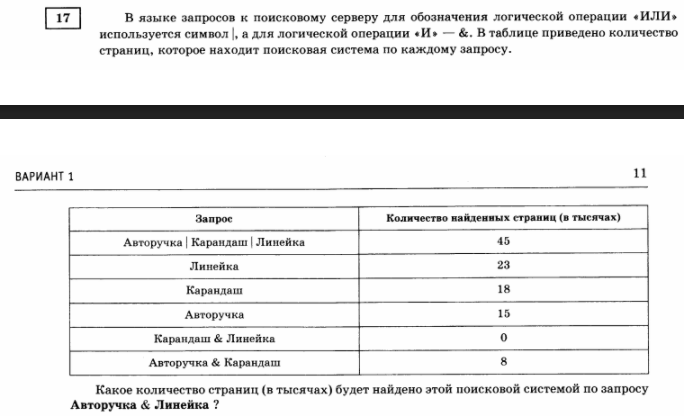
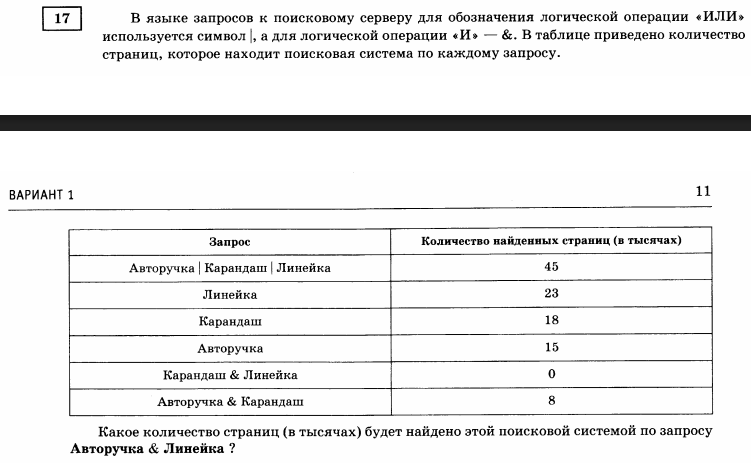
update 2017_Variant1.html

Changed region(s): [[0.0, 0.4062, 0.9518, 1.0], [0.0614, 0.0, 1.0, 0.1562], [0.0, 0.2812, 1.0, 0.3125]]

diff --git a/2017_Variant1.html b/2017_Variant1.html
@@ -13520,8 +13520,8 @@ binary: 11110100, integer: 244
 </div>
 <div class="inner_cell">
 <div class="text_cell_render border-box-sizing rendered_html">
-<p><div style="width: 1000px; height: 600px; overflow:auto;">
-    <img src="it_images/2017_01_17.png" width="1000" height="500"/>
+<p><div style="width: 800px; height: 500px; overflow:auto;">
+    <img src="it_images/2017_01_17.png" width="800" height="500"/>
 </div>
 В языке запросов к поисковому серверу для обозначения логической операции «ИЛИ» используется символ |, а для логической операции «И» — &amp;.</p>
 <p>В таблице приведено количество страниц, которое находит поисковая система по каждому запросу.</p>
@@ -13546,7 +13546,7 @@ binary: 11110100, integer: 244
 </div>
 <div class="cell border-box-sizing code_cell rendered">
 <div class="input">
-<div class="prompt input_prompt">In&nbsp;[56]:</div>
+<div class="prompt input_prompt">In&nbsp;[35]:</div>
 <div class="inner_cell">
     <div class="input_area">
 <div class=" highlight hl-ipython3"><pre><span></span><span class="kn">from</span> <span class="nn">matplotlib_venn</span> <span class="k">import</span> <span class="n">venn3</span>
@@ -13592,7 +13592,7 @@ binary: 11110100, integer: 244
 </div>
 <div class="cell border-box-sizing code_cell rendered">
 <div class="input">
-<div class="prompt input_prompt">In&nbsp;[57]:</div>
+<div class="prompt input_prompt">In&nbsp;[36]:</div>
 <div class="inner_cell">
     <div class="input_area">
 <div class=" highlight hl-ipython3"><pre><span></span><span class="nb">sum</span><span class="p">(</span><span class="n">search_sets</span><span class="p">)</span>
@@ -13608,7 +13608,7 @@ binary: 11110100, integer: 244
 
 <div class="output_area">
 
-<div class="prompt output_prompt">Out[57]:</div>
+<div class="prompt output_prompt">Out[36]:</div>
 
 
 
@@ -13625,7 +13625,7 @@ binary: 11110100, integer: 244
 </div>
 <div class="cell border-box-sizing code_cell rendered">
 <div class="input">
-<div class="prompt input_prompt">In&nbsp;[58]:</div>
+<div class="prompt input_prompt">In&nbsp;[37]:</div>
 <div class="inner_cell">
     <div class="input_area">
 <div class=" highlight hl-ipython3"><pre><span></span><span class="n">answer_dictionary</span><span class="p">[</span><span class="mi">17</span><span class="p">]</span><span class="o">=</span><span class="nb">str</span><span class="p">(</span><span class="n">pen_and_ruler</span><span class="p">)</span>
@@ -13659,8 +13659,8 @@ binary: 11110100, integer: 244
 </div>
 <div class="inner_cell">
 <div class="text_cell_render border-box-sizing rendered_html">
-<p><div style="width: 1000px; height: 250px; overflow:auto;">
-    <img src="it_images/2017_01_18.png" width="1000" height="200"/>
+<p><div style="width: 800px; height: 150px; overflow:auto;">
+    <img src="it_images/2017_01_18.png" width="800" height="150"/>
 </div>
 Обозначим через $ m \ \&amp; \ n $ поразрядную конъюнкцию неотрицательных целых чисел $m$ и $n$. Так, например, $14 \ \&amp; \ 5 = 1110_2 \ \&amp; \ 0101_2 = 0100_2 = 4$.</p>
 <p>Для какого наименьшего неотрицательного целого числа А формула $(x \ \&amp; \ A = 0 \land x \ \&amp; \ 58 \neq 0) \to x \ \&amp; \ 34 \neq 0$ тождественно истинна (то есть принимает значение 1 при любом неотрицательном целом значении переменной х)?</p>
@@ -13673,7 +13673,7 @@ binary: 11110100, integer: 244
 </div>
 <div class="cell border-box-sizing code_cell rendered">
 <div class="input">
-<div class="prompt input_prompt">In&nbsp;[59]:</div>
+<div class="prompt input_prompt">In&nbsp;[38]:</div>
 <div class="inner_cell">
     <div class="input_area">
 <div class=" highlight hl-ipython3"><pre><span></span><span class="nb">bin</span><span class="p">(</span><span class="mi">58</span><span class="p">)[</span><span class="mi">2</span><span class="p">:],</span> <span class="nb">bin</span><span class="p">(</span><span class="mi">34</span><span class="p">)[</span><span class="mi">2</span><span class="p">:]</span>
@@ -13689,7 +13689,7 @@ binary: 11110100, integer: 244
 
 <div class="output_area">
 
-<div class="prompt output_prompt">Out[59]:</div>
+<div class="prompt output_prompt">Out[38]:</div>
 
 
 
@@ -13749,7 +13749,7 @@ binary: 11110100, integer: 244
 </div>
 <div class="cell border-box-sizing code_cell rendered">
 <div class="input">
-<div class="prompt input_prompt">In&nbsp;[60]:</div>
+<div class="prompt input_prompt">In&nbsp;[39]:</div>
 <div class="inner_cell">
     <div class="input_area">
 <div class=" highlight hl-ipython3"><pre><span></span><span class="n">answer_dictionary</span><span class="p">[</span><span class="mi">18</span><span class="p">]</span><span class="o">=</span><span class="nb">str</span><span class="p">(</span><span class="nb">int</span><span class="p">(</span><span class="s1">&#39;11000&#39;</span><span class="p">,</span> <span class="mi">2</span><span class="p">))</span>
@@ -13783,8 +13783,8 @@ binary: 11110100, integer: 244
 </div>
 <div class="inner_cell">
 <div class="text_cell_render border-box-sizing rendered_html">
-<div style="width: 1000px; height: 700px; overflow:auto;">
-    <img src="it_images/2017_01_19.png" width="1000" height="600"/>
+<div style="width: 800px; height: 600px; overflow:auto;">
+    <img src="it_images/2017_01_19.png" width="800" height="600"/>
 </div><p>В программе используется целочисленный массив А с индексами от 0 до 9. Значения элементов массива равны $4; 5; 4; 7; 6; 3; 9; 11; 7; 8$ соответственно, т.е. $А[0] = 4; А[1] = 5$ и т.д.</p>
 <p>Определите значение переменной $k$ после выполнения следующего фрагмента программы, записанной ниже на разных языках программирования.</p>
 <hr>
@@ -13796,7 +13796,7 @@ binary: 11110100, integer: 244
 </div>
 <div class="cell border-box-sizing code_cell rendered">
 <div class="input">
-<div class="prompt input_prompt">In&nbsp;[61]:</div>
+<div class="prompt input_prompt">In&nbsp;[40]:</div>
 <div class="inner_cell">
     <div class="input_area">
 <div class=" highlight hl-ipython3"><pre><span></span><span class="n">A</span> <span class="o">=</span> <span class="n">numpy</span><span class="o">.</span><span class="n">array</span><span class="p">([</span><span class="mi">4</span><span class="p">,</span><span class="mi">5</span><span class="p">,</span><span class="mi">4</span><span class="p">,</span><span class="mi">7</span><span class="p">,</span><span class="mi">6</span><span class="p">,</span><span class="mi">3</span><span class="p">,</span><span class="mi">9</span><span class="p">,</span><span class="mi">11</span><span class="p">,</span><span class="mi">7</span><span class="p">,</span><span class="mi">8</span><span class="p">])</span>
@@ -13840,8 +13840,9 @@ binary: 11110100, integer: 244
 </div>
 <div class="inner_cell">
 <div class="text_cell_render border-box-sizing rendered_html">
-<div style="width: 1000px; height: 1300px; overflow:auto;">
-    <img src="it_images/2017_01_20.png" width="1000" height="1200"/>
+<div style="width: 800px; height: 1100px; overflow:auto;">
+    <img src="it_images/2017_01_20_1.png" width="800" height="500"/>
+    <img src="it_images/2017_01_20_2.png" width="800" height="500"/>
 </div><p>Ниже на четырёх языках записан алгоритм. Получив на вход число $х$, этот алгоритм печатает три числа К, М и L. Укажите наименьшее число $х$, при вводе которого алгоритм печатает сначала 3, потом 2, потом ещё 2.</p>
 <hr>
 <p>Below, in four languages, an algorithm is written. Having received the number $x$ on the input, this algorithm prints the three numbers K, M and L. Indicate the smallest number of $x$, at the input of which the algorithm prints at first 3, then 2, then 2 more.</p>
@@ -13930,8 +13931,9 @@ binary: 11110100, integer: 244
 </div>
 <div class="inner_cell">
 <div class="text_cell_render border-box-sizing rendered_html">
-<div style="width: 1000px; height: 1100px; overflow:auto;">
-    <img src="it_images/2017_01_21.png" width="1000" height="1000"/>
+<div style="width: 800px; height: 1000px; overflow:auto;">
+    <img src="it_images/2017_01_21_1.png" width="800" height="500"/>
+    <img src="it_images/2017_01_21_2.png" width="800" height="500"/>
 </div><p>Ниже на четырёх языках представлен алгоритм. Напишите в ответе число различных значений входной переменной $k$, при которых алгоритм выдаёт тот же ответ, что и при входном значении $k = 40$. Значение $k = 40$ также включается в подсчёт различных значений $k$.</p>
 <hr>
 <p>The algorithm is presented in four languages below. Write in the answer the number of different values of the input variable $k$, under which the algorithm produces the same response as the input value $k = 40$. The value $k = 40$ is also included in the calculation of the different values of $k$.</p>
@@ -13941,7 +13943,7 @@ binary: 11110100, integer: 244
 </div>
 <div class="cell border-box-sizing code_cell rendered">
 <div class="input">
-<div class="prompt input_prompt">In&nbsp;[64]:</div>
+<div class="prompt input_prompt">In&nbsp;[41]:</div>
 <div class="inner_cell">
     <div class="input_area">
 <div class=" highlight hl-ipython3"><pre><span></span><span class="k">def</span> <span class="nf">f</span><span class="p">(</span><span class="n">n</span><span class="p">):</span> <span class="k">return</span> <span class="nb">int</span><span class="p">(</span><span class="n">n</span><span class="o">**</span><span class="mi">2</span><span class="o">+</span><span class="mi">8</span><span class="p">)</span>
@@ -14069,7 +14071,7 @@ k = 59 ; i-1 = 7
 </div>
 <div class="cell border-box-sizing code_cell rendered">
 <div class="input">
-<div class="prompt input_prompt">In&nbsp;[65]:</div>
+<div class="prompt input_prompt">In&nbsp;[42]:</div>
 <div class="inner_cell">
     <div class="input_area">
 <div class=" highlight hl-ipython3"><pre><span></span><span class="n">answer_dictionary</span><span class="p">[</span><span class="mi">21</span><span class="p">]</span><span class="o">=</span><span class="nb">str</span><span class="p">(</span><span class="mi">12</span><span class="p">)</span>
@@ -14103,29 +14105,29 @@ k = 59 ; i-1 = 7
 </div>
 <div class="inner_cell">
 <div class="text_cell_render border-box-sizing rendered_html">
-<div style="width: 1000px; height: 600px; overflow:auto;">
-    <img src="it_images/2017_01_22.png" width="1000" height="500"/>
-</div><p>Исполнитель Июнь15 преобразует число на экране.</p>
+<div style="width: 800px; height: 450px; overflow:auto;">
+    <img src="it_images/2017_01_22.png" width="800" height="450"/>
+</div><p>Исполнитель <code>Июнь 15</code> преобразует число на экране.</p>
 <p>У исполнителя есть две команды, которым присвоены номера:</p>
 <ol>
-<li><p>Прибавить 1</p>
+<li><p><code>Прибавить 1</code></p>
 </li>
-<li><p>Умножить на 2</p>
+<li><p><code>Умножить на 2</code></p>
 </li>
 </ol>
 <p>Первая команда увеличивает число на экране на 1, вторая умножает его на 2.</p>
-<p>Программа для исполнителя Июнь15 — это последовательность команд.</p>
+<p>Программа для исполнителя <code>Июнь 15</code> — это последовательность команд.</p>
 <p>Сколько существует программ, для которых при исходном числе 2 результатом является число 34 и при этом траектория вычислений содержит число 12?</p>
 <p>Траектория вычислений программы — это последовательность результатов выполнения всех команд программы. Например, для программы 121 при исходном числе 7 траектория будет состоять из чисел 8, 16, 17.</p>
 <hr>
-<p>The robot June-15 converts the number on the screen. The robot has two assigned commands:</p>
+<p>The robot <code>June-15</code> converts the number on the screen. The robot has two assigned commands:</p>
 <ol>
-<li><p>Add 1</p>
+<li><p><code>Add 1</code></p>
 </li>
-<li><p>Multiply by 2</p>
+<li><p><code>Multiply by 2</code></p>
 </li>
 </ol>
-<p>The first command increases the number on the screen by 1, the second one multiplies it by 2. The program for the performer June-15 is a sequence of commands.</p>
+<p>The first command increases the number on the screen by 1, the second one multiplies it by 2. The program for the performer <code>June-15</code> is a sequence of commands.</p>
 <p>How many programs exist for which the original number 2 results in a number of 34 and the calculation path contains the number 12?</p>
 <p>The program's calculation path is the sequence of the results of execution of all program commands. For example, for program 121 with the original number 7, the trajectory will consist of the numbers 8, 16, 17.</p>
 
@@ -14134,7 +14136,7 @@ k = 59 ; i-1 = 7
 </div>
 <div class="cell border-box-sizing code_cell rendered">
 <div class="input">
-<div class="prompt input_prompt">In&nbsp;[66]:</div>
+<div class="prompt input_prompt">In&nbsp;[43]:</div>
 <div class="inner_cell">
     <div class="input_area">
 <div class=" highlight hl-ipython3"><pre><span></span><span class="kn">import</span> <span class="nn">pydot</span>
@@ -14218,7 +14220,7 @@ k = 59 ; i-1 = 7
 </div>
 <div class="cell border-box-sizing code_cell rendered">
 <div class="input">
-<div class="prompt input_prompt">In&nbsp;[67]:</div>
+<div class="prompt input_prompt">In&nbsp;[44]:</div>
 <div class="inner_cell">
     <div class="input_area">
 <div class=" highlight hl-ipython3"><pre><span></span><span class="n">answer_dictionary</span><span class="p">[</span><span class="mi">22</span><span class="p">]</span><span class="o">=</span><span class="nb">str</span><span class="p">(</span><span class="mi">10</span><span class="o">*</span><span class="mi">7</span><span class="p">)</span>
@@ -14252,8 +14254,8 @@ k = 59 ; i-1 = 7
 </div>
 <div class="inner_cell">
 <div class="text_cell_render border-box-sizing rendered_html">
-<div style="width: 1000px; height: 300px; overflow:auto;">
-    <img src="it_images/2017_01_23.png" width="1000" height="200"/>
+<div style="width: 800px; height: 250px; overflow:auto;">
+    <img src="it_images/2017_01_23.png" width="800" height="250"/>
 </div><p>Сколько существует различных наборов значений логических переменных $x_1, х_2, ... x_9, х_{10}$, которые удовлетворяют всем перечисленным ниже условиям?</p>
 <p>В ответе не нужно перечислять все различные наборы значений $x_1, х_2, ... x_9, х_{10}$, при которых выполнена данная система равенств. В качестве ответа вам нужно указать количество таких наборов.</p>
 <hr>
@@ -14266,7 +14268,7 @@ k = 59 ; i-1 = 7
 </div>
 <div class="cell border-box-sizing code_cell rendered">
 <div class="input">
-<div class="prompt input_prompt">In&nbsp;[68]:</div>
+<div class="prompt input_prompt">In&nbsp;[46]:</div>
 <div class="inner_cell">
     <div class="input_area">
 <div class=" highlight hl-ipython3"><pre><span></span><span class="kn">import</span> <span class="nn">itertools</span>
@@ -14377,7 +14379,7 @@ k = 59 ; i-1 = 7
 </div>
 <div class="cell border-box-sizing code_cell rendered">
 <div class="input">
-<div class="prompt input_prompt">In&nbsp;[69]:</div>
+<div class="prompt input_prompt">In&nbsp;[45]:</div>
 <div class="inner_cell">
     <div class="input_area">
 <div class=" highlight hl-ipython3"><pre><span></span><span class="mi">2</span><span class="o">**</span><span class="mi">10</span> <span class="o">-</span> <span class="mi">4</span> <span class="o">*</span> <span class="mi">2</span> <span class="o">**</span> <span class="mi">6</span> <span class="o">-</span> <span class="mi">4</span> <span class="o">*</span> <span class="mi">2</span> <span class="o">**</span> <span class="mi">6</span> <span class="o">+</span> <span class="mi">4</span> <span class="o">*</span> <span class="mi">4</span> <span class="o">*</span> <span class="mi">2</span><span class="o">**</span><span class="mi">2</span> <span class="o">-</span> <span class="mi">4</span> <span class="o">*</span> <span class="mi">2</span> <span class="o">**</span> <span class="mi">6</span> <span class="o">-</span> <span class="mi">4</span> <span class="o">*</span> <span class="mi">2</span> <span class="o">**</span> <span class="mi">6</span> <span class="o">+</span> <span class="mi">4</span> <span class="o">*</span> <span class="mi">4</span> <span class="o">*</span> <span class="mi">2</span><span class="o">**</span><span class="mi">2</span>
@@ -14393,7 +14395,7 @@ k = 59 ; i-1 = 7
 
 <div class="output_area">
 
-<div class="prompt output_prompt">Out[69]:</div>
+<div class="prompt output_prompt">Out[45]:</div>
 
 
 
